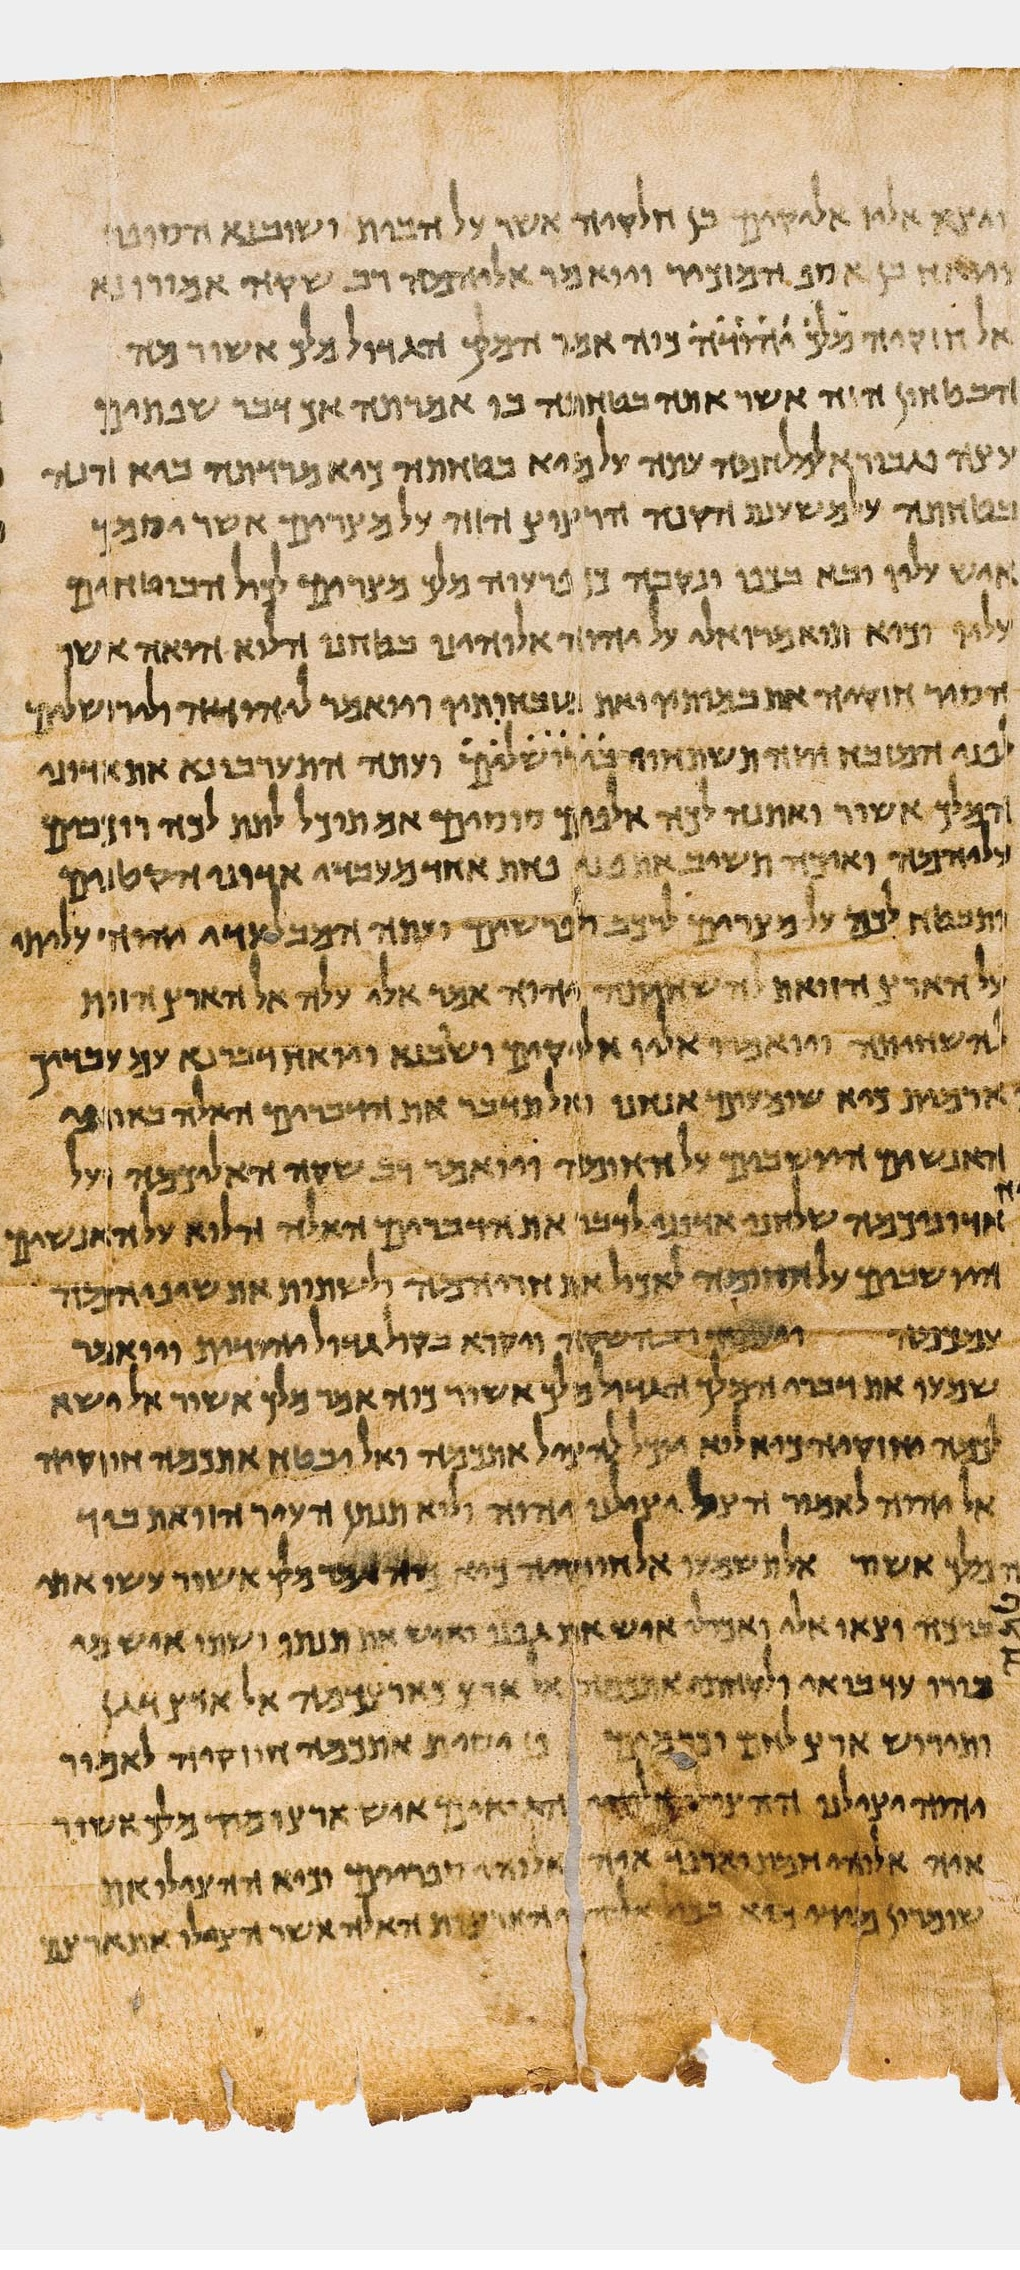
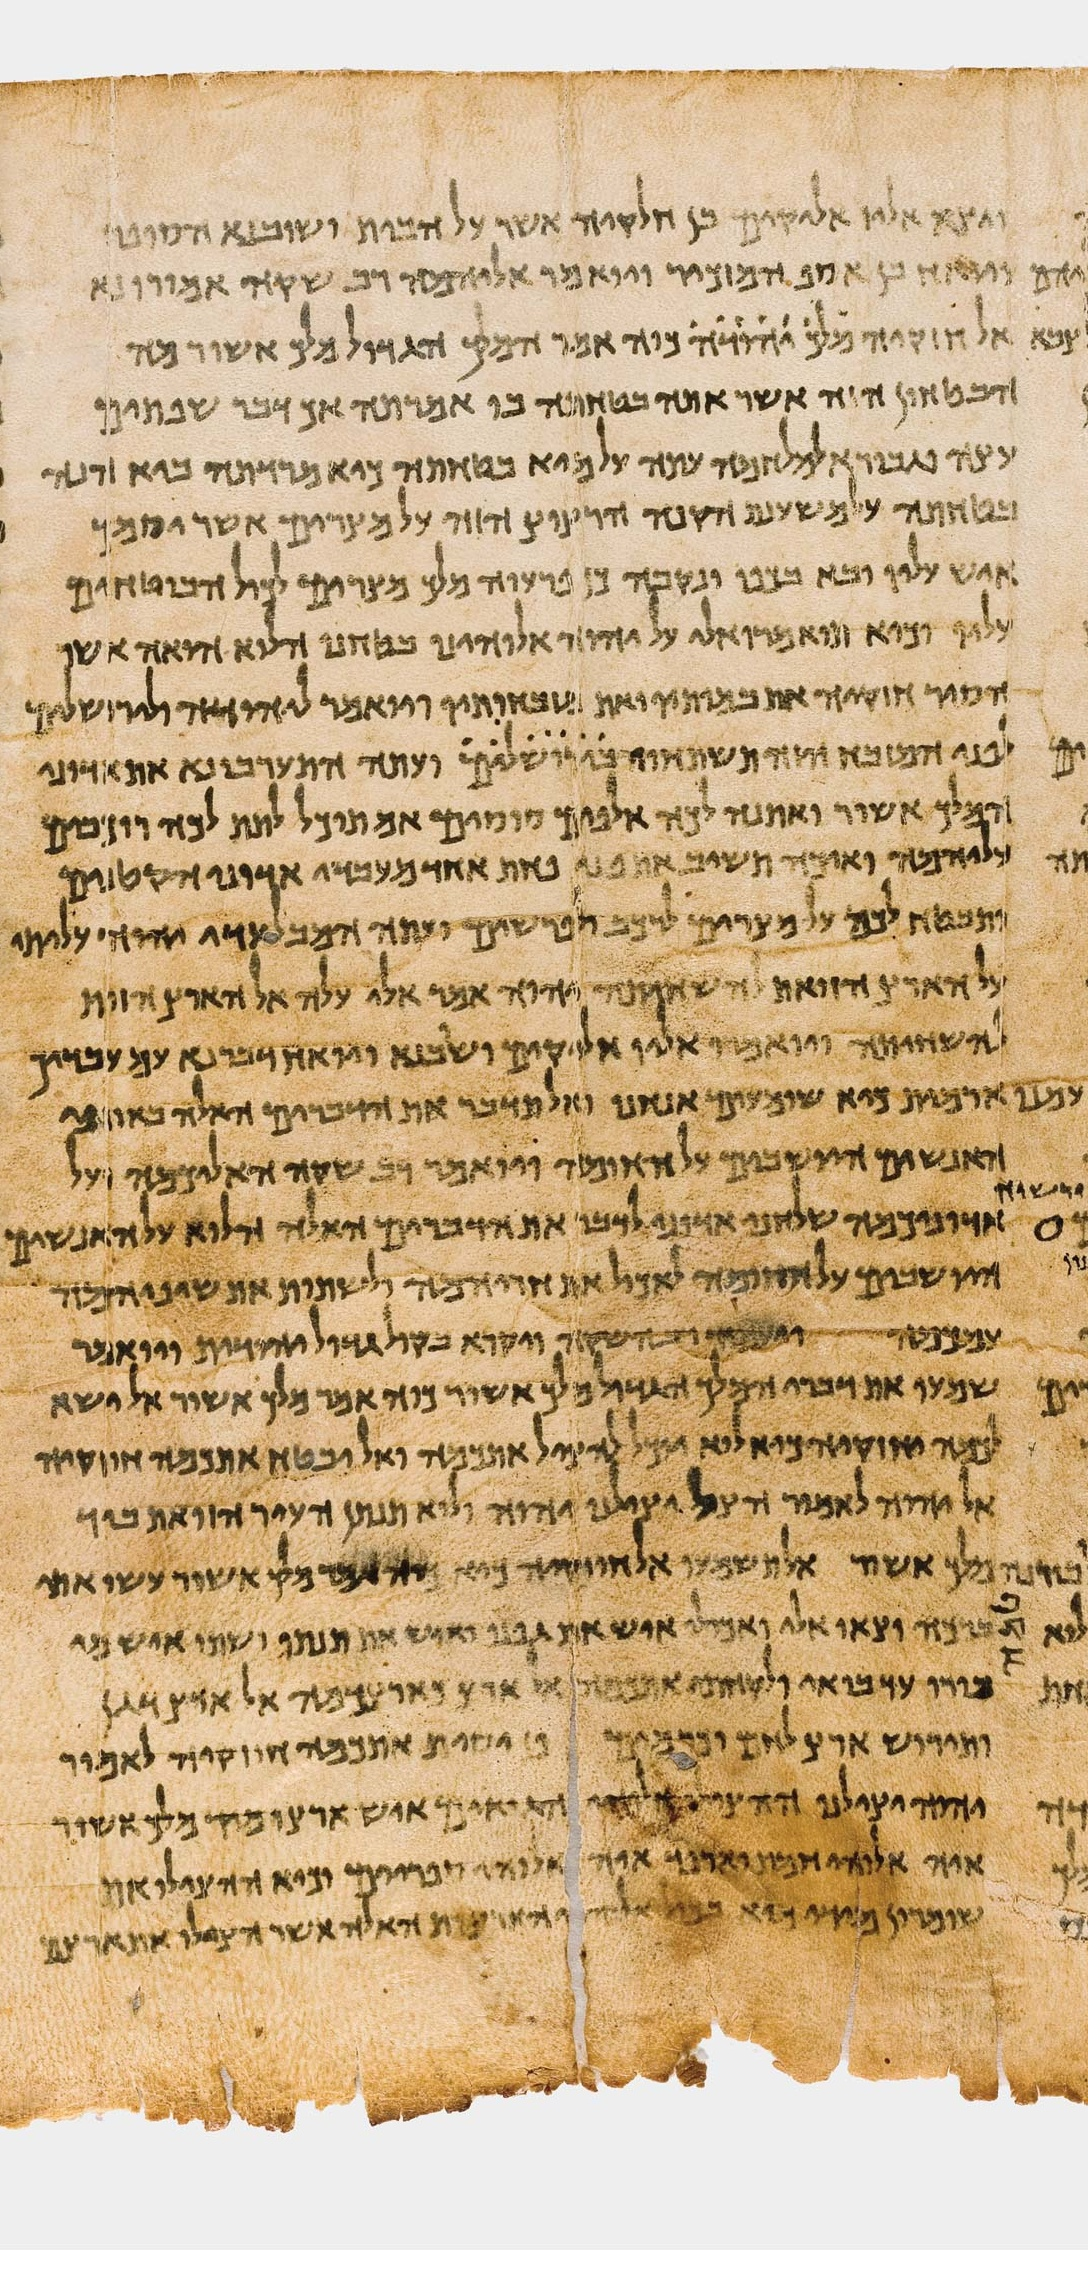
Expanded column 29 to include a word that was written in the margin.

diff --git a/src/main/python/services/dss_images/stitch.py b/src/main/python/services/dss_images/stitch.py
@@ -110,7 +110,7 @@ if __name__ == '__main__':
     # construct_column(Collection.TORAH, 1, res=5)
 
     for res in range(8, 11):
-        construct_column(Collection.ISAIAH, 22, res)
+        construct_column(Collection.ISAIAH, 29, res)
     cv2.waitKey(0)
 
     # for c in range(1, 16):